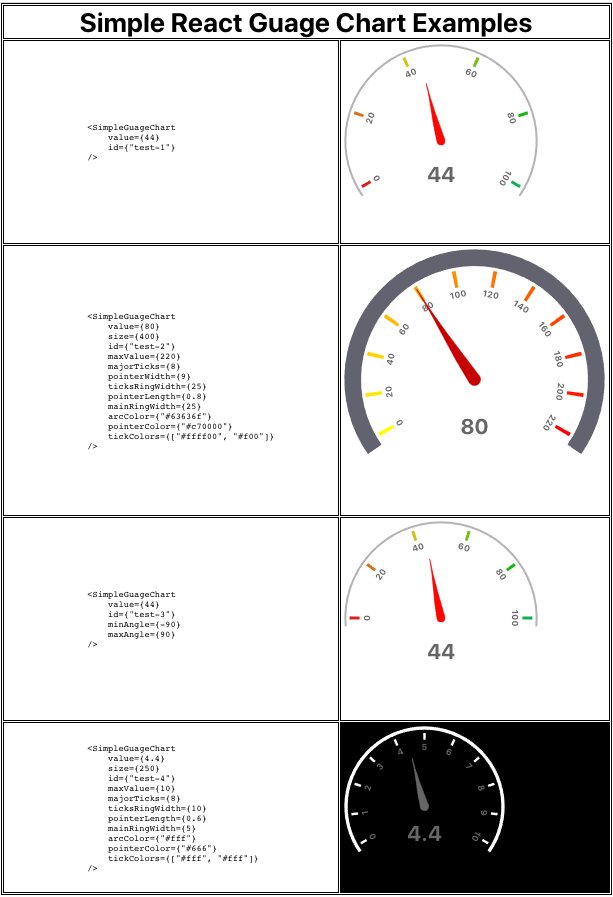
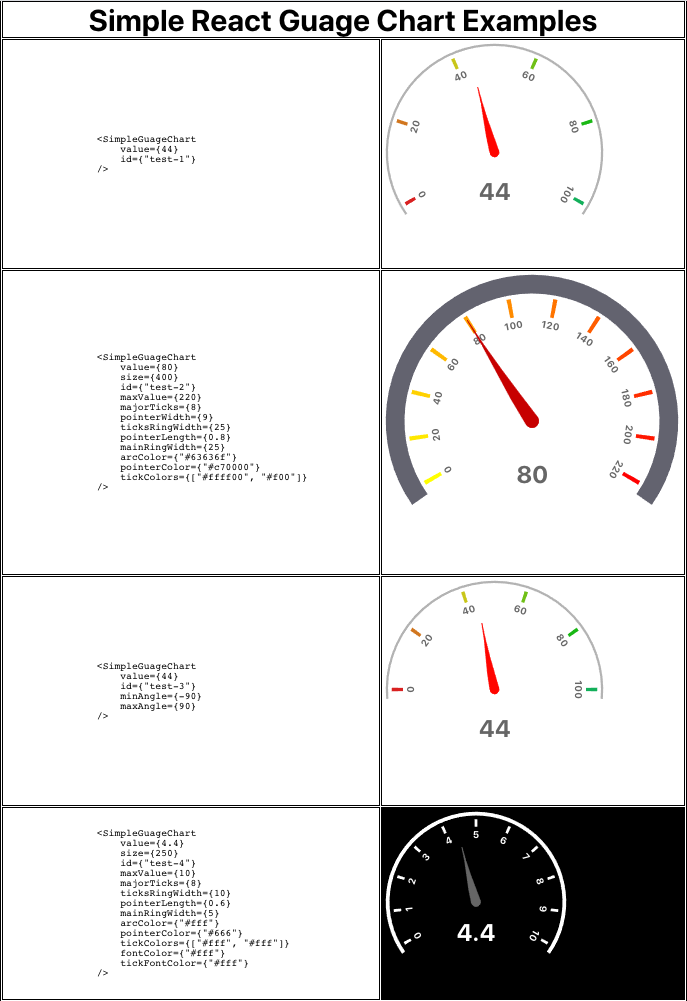
Adding customizable option for Font color of Ticks and Value

diff --git a/src/index.js b/src/index.js
@@ -51,6 +51,9 @@ export class SimpleGuageChart extends Component {
 
             arcColor: '#b3b3b3',
             pointerColor: '#ff0500',
+
+            tickFontColor: '#666',
+            fontColor: '#666',
         }
 
         this.config.arcColorFn = d3.interpolateHsl(d3.rgb(this.config.tickColors[0]), d3.rgb(this.config.tickColors[1]))
@@ -123,6 +126,9 @@ export class SimpleGuageChart extends Component {
         c.arcColor = p.arcColor !== undefined ? p.arcColor : c.arcColor;
 
         c.labelInset = c.mainRingWidth + c.mainRingInset + c.ticksRingInset + c.ticksRingWidth + 15;
+
+        c.tickFontColor = p.tickFontColor !== undefined ? p.tickFontColor : c.tickFontColor;
+        c.fontColor = p.fontColor !== undefined ? p.fontColor : c.fontColor;
 
         this.setState({ config: c });
 
@@ -227,7 +233,7 @@ export class SimpleGuageChart extends Component {
                 return 'rotate(' + newAngle + ') translate(0,' + (config.labelInset - r) + ')';
             })
             .text(config.labelFormat)
-            .style('fill', '#666')
+            .style('fill', config.tickFontColor)
             .style('text-anchor', 'middle')
             .style('font-size', '13px')
             .style('font-weight', 'bold')
@@ -275,12 +281,15 @@ export class SimpleGuageChart extends Component {
 
     render() {
         let {config} = this.state;
+        let valueStyle = {
+            color: config.fontColor
+        };
         return (
             <div className={`${styles['sr-guage-chart-wrapper']} sr-guage-chart-wrapper`}>
                 <div id={`#${this.props.id}`} className={styles['sr-guage-chart']}>
                 </div>
                 <div className={styles['sr-guage-chart-value']} style={{width: config.width}}>
-                    <strong>{this.props.value}</strong><br/>
+                    <strong style={valueStyle}>{this.props.value}</strong><br/>
                 </div>
             </div>
         )

diff --git a/example/src/App.js b/example/src/App.js
@@ -103,6 +103,8 @@ const App = () => {
                     arcColor={"#fff"}
                     pointerColor={"#666"}
                     tickColors={["#fff", "#fff"]}
+                    fontColor={"#fff"}
+                    tickFontColor={"#fff"}
                 />
                         `}
                     </pre>
@@ -119,6 +121,8 @@ const App = () => {
                                       arcColor={"#fff"}
                                       pointerColor={"#666"}
                                       tickColors={["#fff", "#fff"]}
+                                      fontColor={"#fff"}
+                                      tickFontColor={"#fff"}
                     />
                 </td>
             </tr>

diff --git a/src/styles.module.css b/src/styles.module.css
@@ -10,7 +10,6 @@
   bottom: 30%;
   font-size: 32px;
   line-height: 25px;
-  color: #666;
 }
 
 .sr-guage-chart-wrapper .guage-label{

diff --git a/README.md b/README.md
@@ -47,6 +47,8 @@ class Example extends Component {
 | tickColors      | PropTypes.array             | Color of ticks. Should be an array of length 2.                | ["#d92121", "#12af5a"] |
 | pointerColor    | PropTypes.string            | Color of Pointer                                               | "#ff0500"              |
 | arcColor        | PropTypes.string            | Color of Main Arc                                              | "#b3b3b3"              |
+| tickFontColor   | PropTypes.string            | Color of Text on scale                                         | "#666"                 |
+| fontColor       | PropTypes.string            | Color of Value presented on scale                              | "#666"                 |
 
 ## License
 
